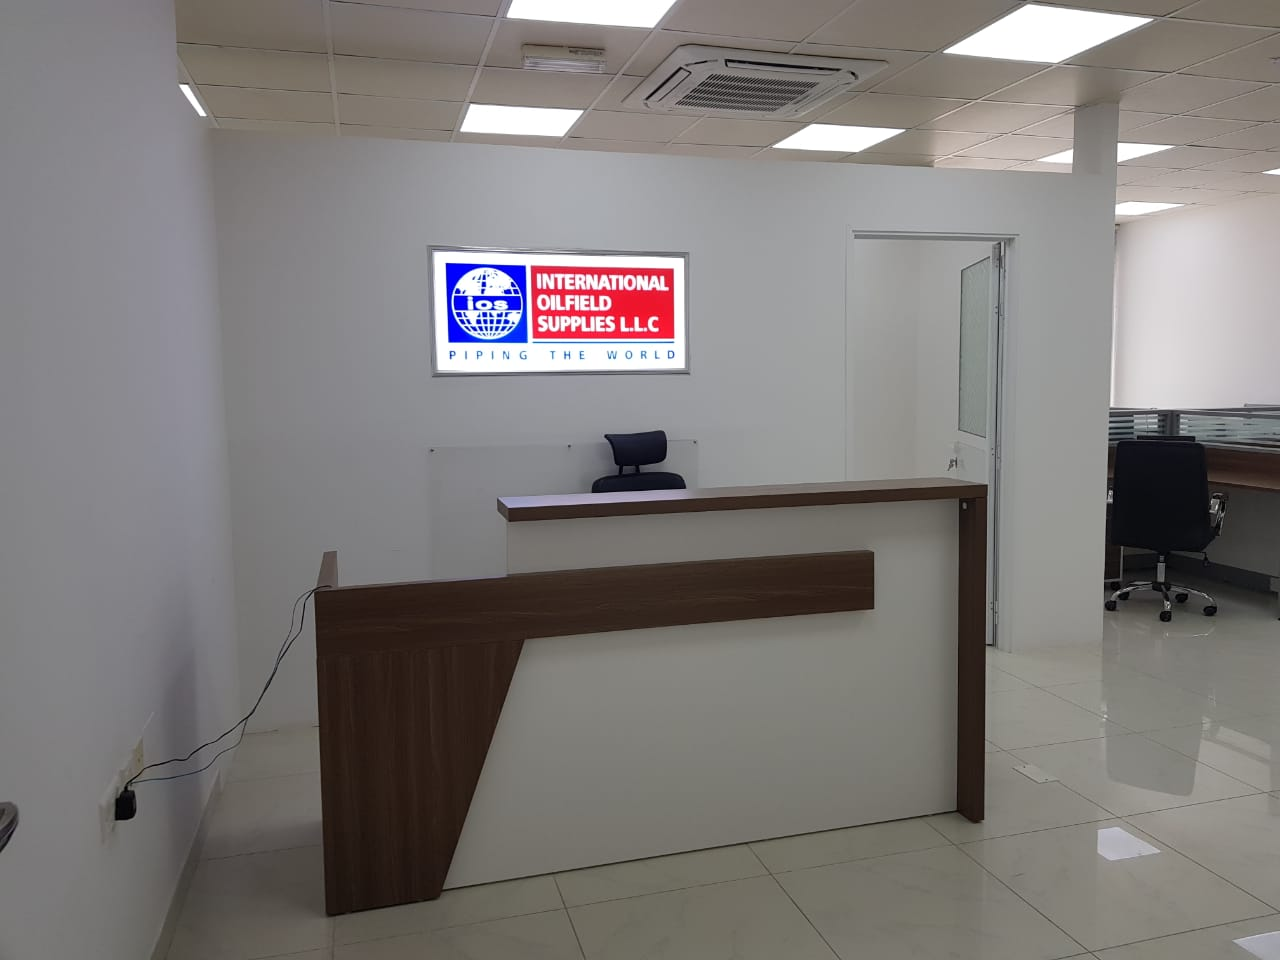
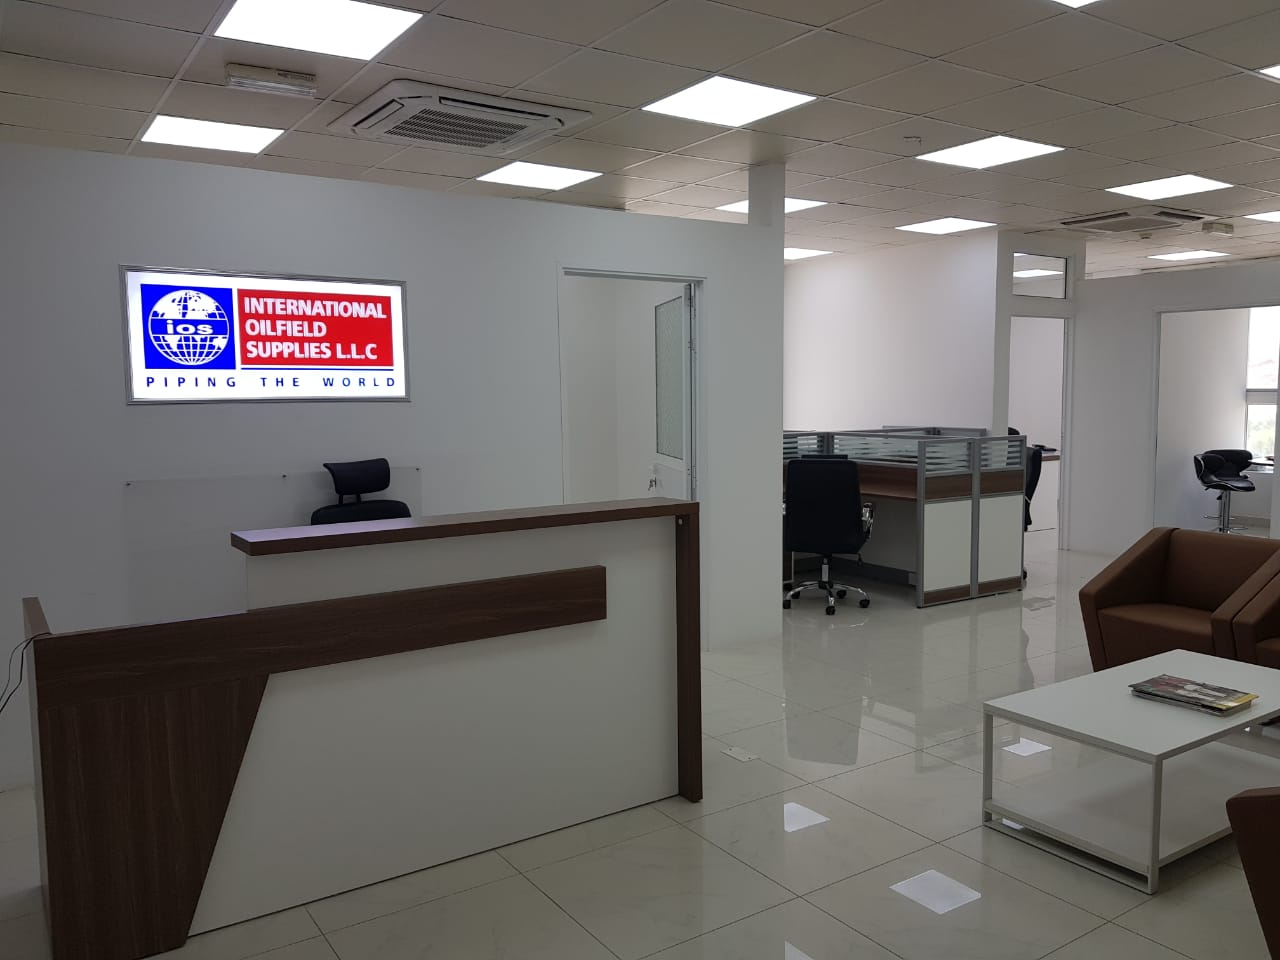
image replacements in about & gallery

diff --git a/pages/gallery.js b/pages/gallery.js
@@ -68,7 +68,7 @@ const Gallery = () => {
 		for (let index = 0; index < 39; index++) {
 			setImageArray((prev) => [material + index + ".jpg", ...prev]);
 		}
-		for (let index = 0; index < 4; index++) {
+		for (let index = 0; index < 3; index++) {
 			setImageArray((prev) => [office + index + ".jpg", ...prev]);
 		}
 
